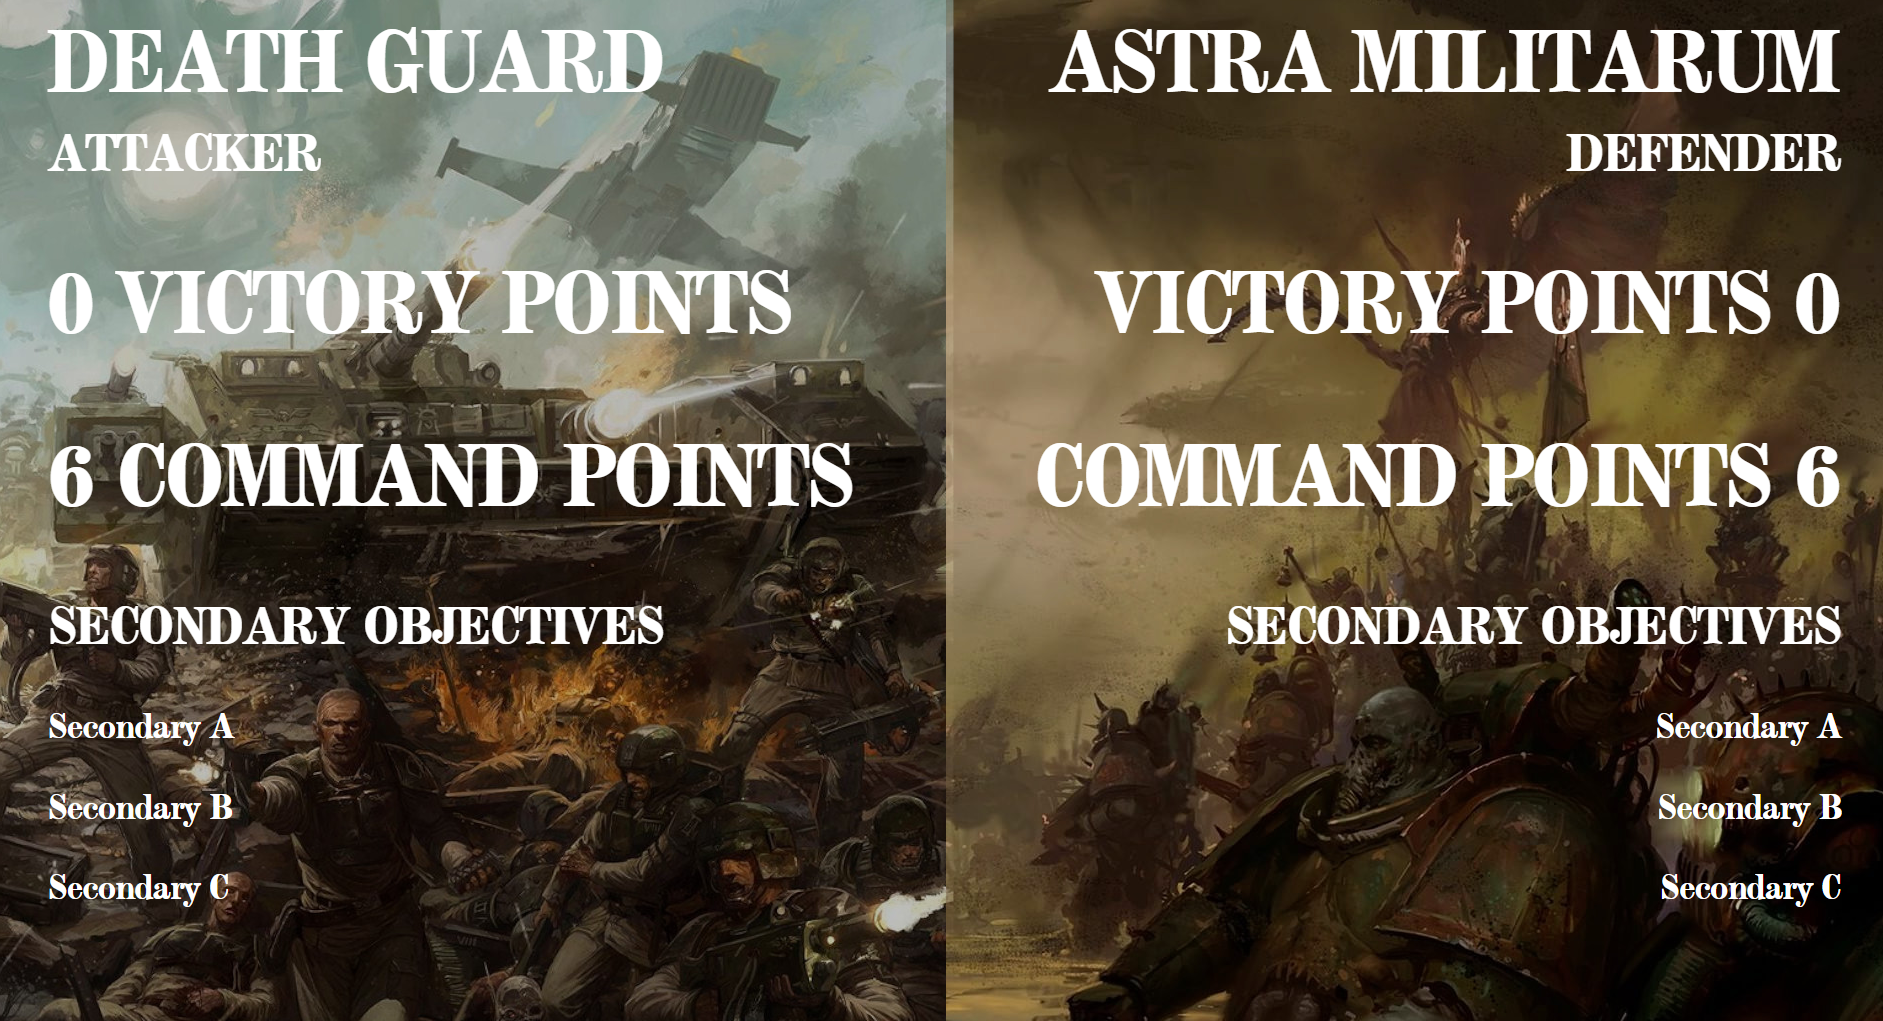
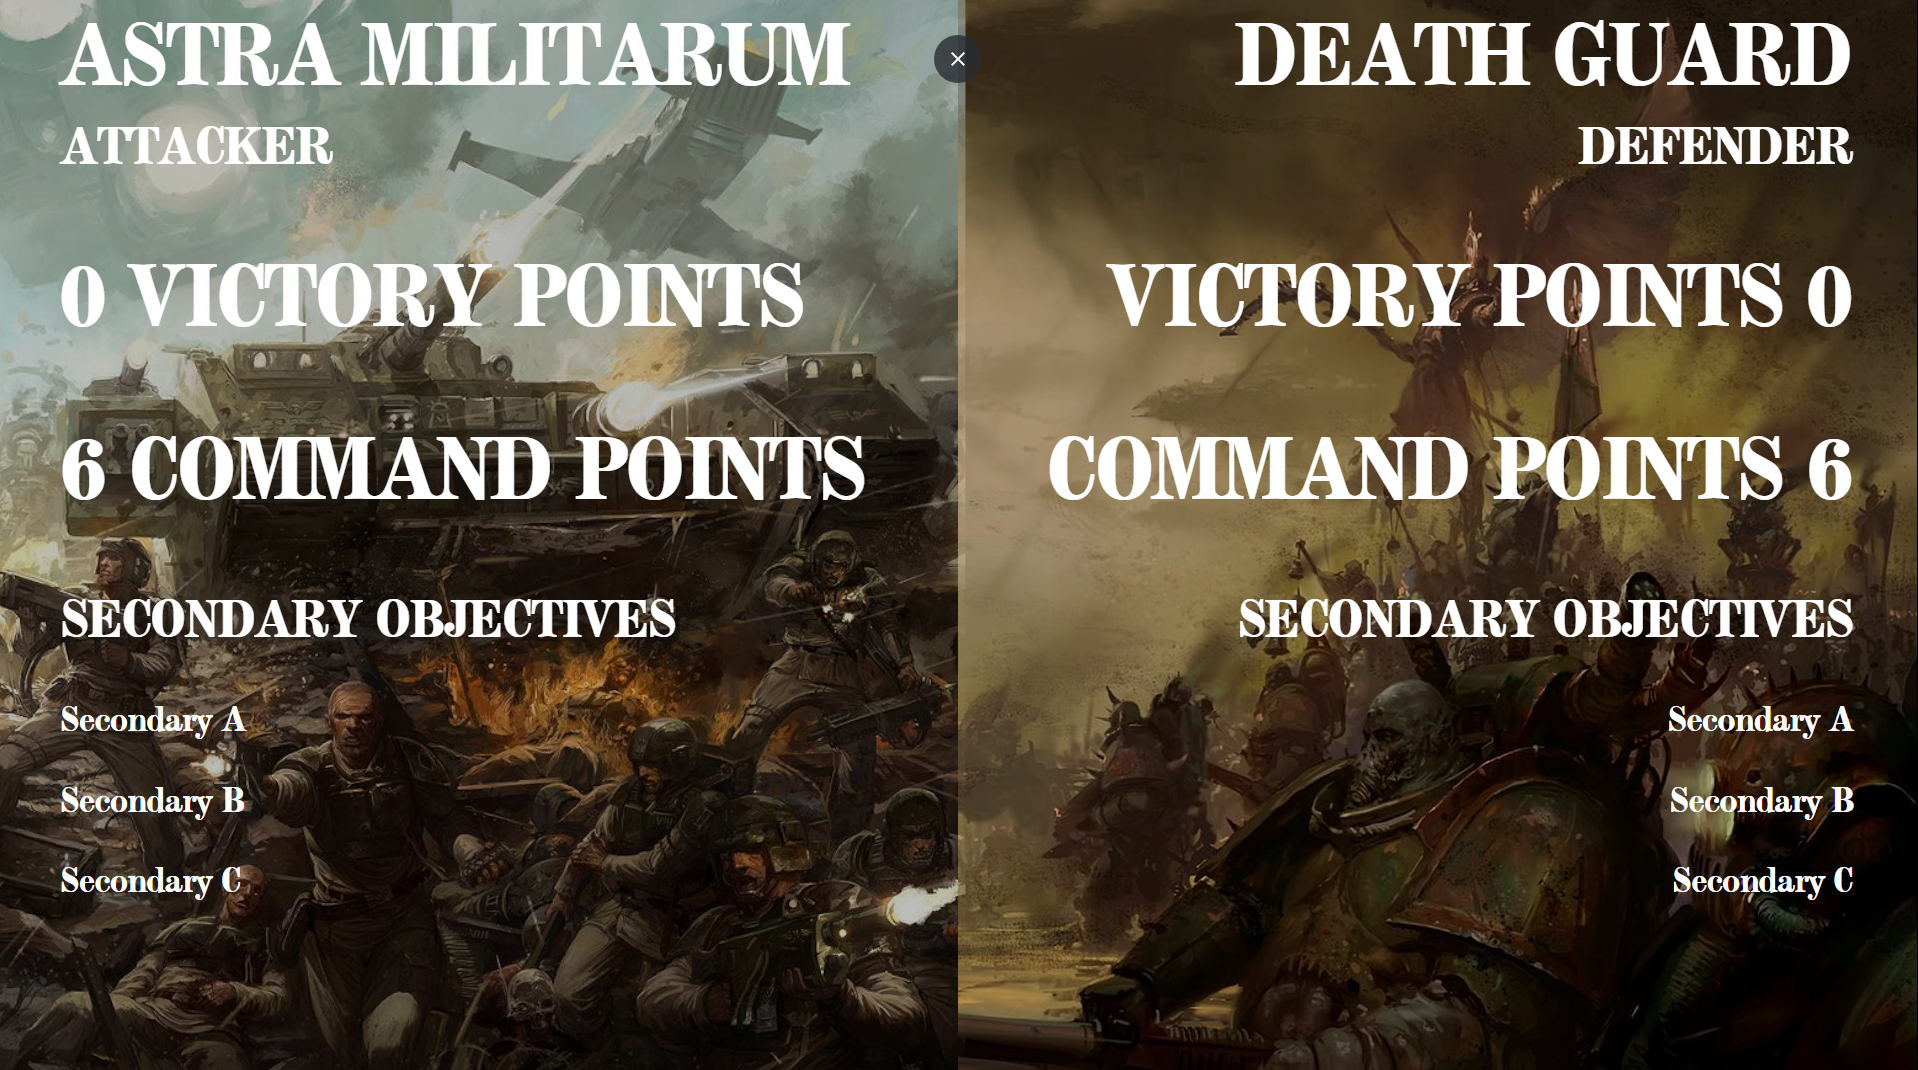
wrong names

diff --git a/index.html b/index.html
@@ -13,7 +13,7 @@
   <body onload="letsago()">
     <div id="containerleft">
         <div class="textbox textbox-left">
-            <h1 class="faction">Death Guard</h1>
+            <h1 class="faction">Astra Militarum</h1>
             <h2 class="role">Attacker</h2>
             <h1><span id="vpleft"></span> Victory points </h1>
             <h1><span id="cpleft"></span> Command points </h1>
@@ -25,7 +25,7 @@
     </div>
     <div id="containerright">
         <div class="textbox textbox-right">
-            <h1 class="faction wrap_right">Astra Militarum</h1>
+            <h1 class="faction wrap_right">Death Guard</h1>
             <h2 class="role wrap_right">Defender</h2>
             <h1 class="wrap_right"> Victory points <span id="vpright"></span></h1>
             <h1 class="wrap_right"> Command points <span id="cpright"></span></h1>
